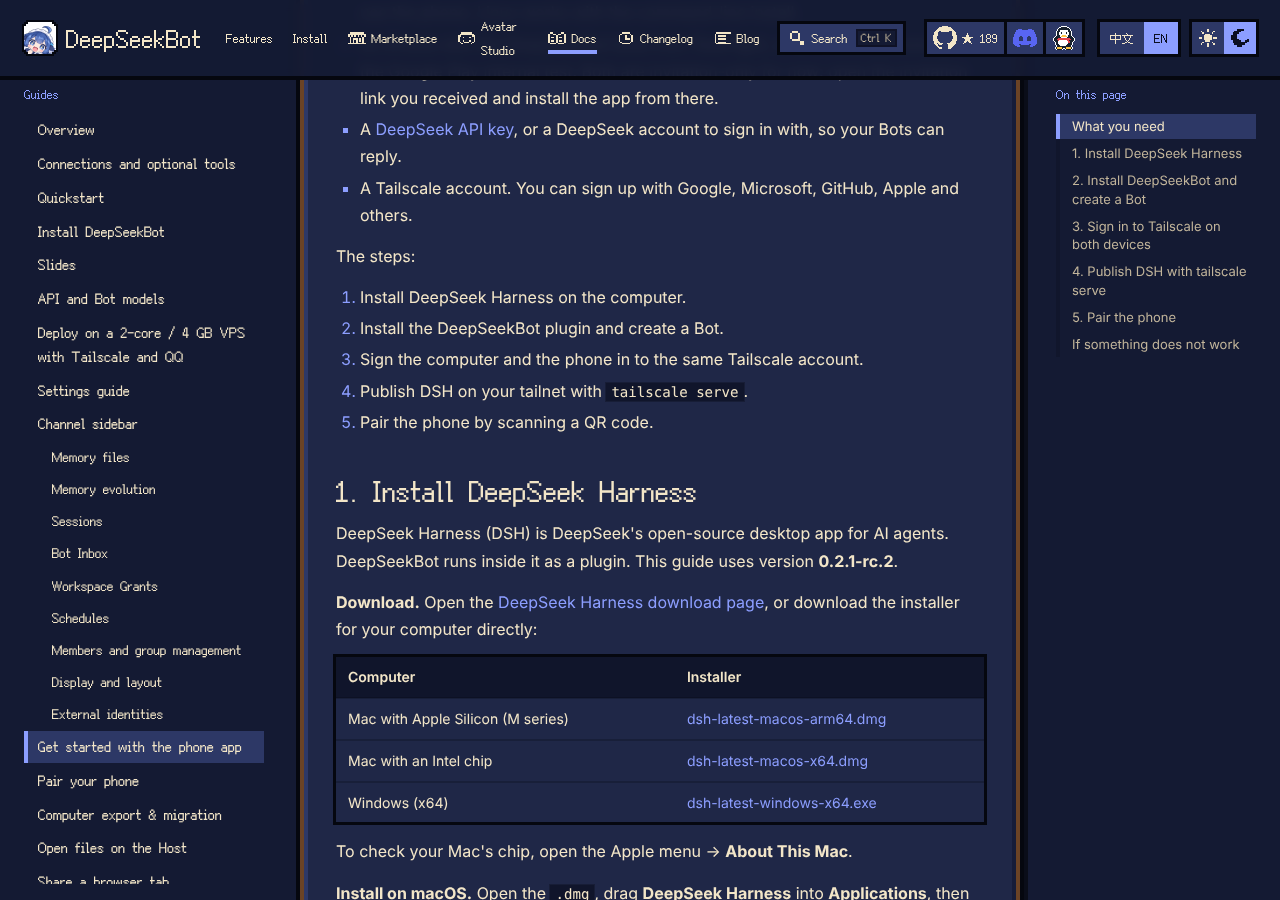
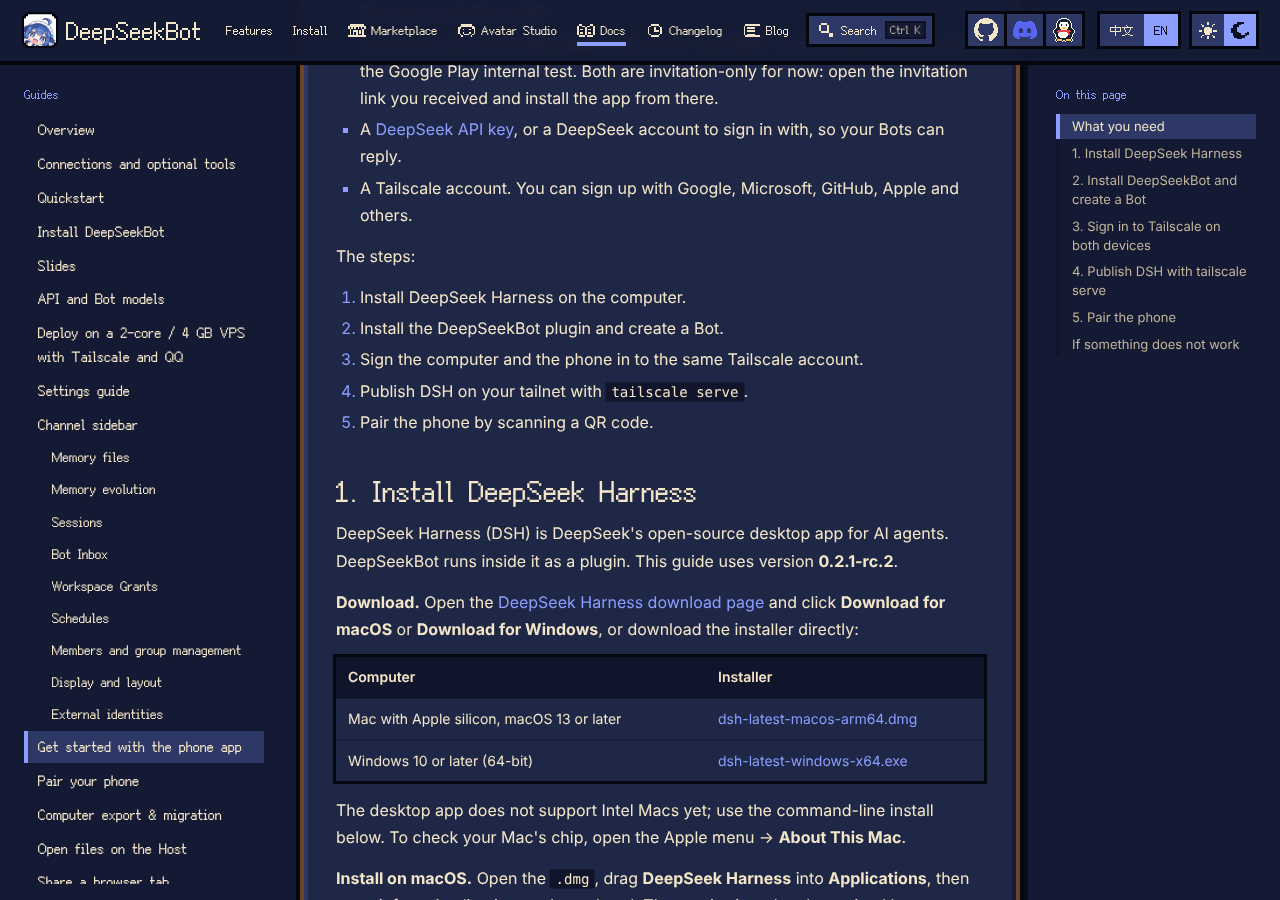
docs: match the DSH download page (Apple silicon and Windows only)
Checked deepseek.com/harness and /en/harness: the desktop app ships for
Apple silicon on macOS 13+ and Windows 10+ x64, and says Intel Macs are
not supported yet. The arm64 and Windows feeds serve 0.2.1-rc.2; the
mac-x64 feed is still rc.1, so drop that link and route Intel Macs to
the CLI. Use the page's own button labels in each language.

Claude-Session: https://claude.ai/code/session_012xsMzx1Y3yk5VtrmCCVHW7

diff --git a/content/docs/en/mobile-app.md b/content/docs/en/mobile-app.md
@@ -17,7 +17,7 @@ The software is free. DSH and DeepSeekBot are open source and need no account. T
 
 ## What you need
 
-- A Mac (Apple Silicon or Intel) or a Windows x64 computer that stays on while you use the phone. Linux works with the command-line install.
+- A Mac with Apple silicon (macOS 13 or later) or a Windows 10 or later x64 computer that stays on while you use the phone. Intel Macs and Linux work with the command-line install.
 - An iPhone with the DeepSeekBot beta from TestFlight, or an Android phone with the Google Play internal test. Both are invitation-only for now: open the invitation link you received and install the app from there.
 - A [DeepSeek API key](https://platform.deepseek.com/api_keys), or a DeepSeek account to sign in with, so your Bots can reply.
 - A Tailscale account. You can sign up with Google, Microsoft, GitHub, Apple and others.
@@ -34,15 +34,14 @@ The steps:
 
 DeepSeek Harness (DSH) is DeepSeek's open-source desktop app for AI agents. DeepSeekBot runs inside it as a plugin. This guide uses version **0.2.1-rc.2**.
 
-**Download.** Open the [DeepSeek Harness download page](https://www.deepseek.com/en/harness/), or download the installer for your computer directly:
+**Download.** Open the [DeepSeek Harness download page](https://www.deepseek.com/en/harness/) and click **Download for macOS** or **Download for Windows**, or download the installer directly:
 
-| Computer                       | Installer                                                                                     |
-| ------------------------------ | --------------------------------------------------------------------------------------------- |
-| Mac with Apple Silicon (M series) | [dsh-latest-macos-arm64.dmg](https://download.deepseek.com/desktop/dsh-latest-macos-arm64.dmg) |
-| Mac with an Intel chip         | [dsh-latest-macos-x64.dmg](https://download.deepseek.com/desktop/dsh-latest-macos-x64.dmg)     |
-| Windows (x64)                  | [dsh-latest-windows-x64.exe](https://download.deepseek.com/desktop/dsh-latest-windows-x64.exe) |
+| Computer                                     | Installer                                                                                     |
+| -------------------------------------------- | --------------------------------------------------------------------------------------------- |
+| Mac with Apple silicon, macOS 13 or later    | [dsh-latest-macos-arm64.dmg](https://download.deepseek.com/desktop/dsh-latest-macos-arm64.dmg) |
+| Windows 10 or later (64-bit)                 | [dsh-latest-windows-x64.exe](https://download.deepseek.com/desktop/dsh-latest-windows-x64.exe) |
 
-To check your Mac's chip, open the Apple menu → **About This Mac**.
+The desktop app does not support Intel Macs yet; use the command-line install below. To check your Mac's chip, open the Apple menu → **About This Mac**.
 
 **Install on macOS.** Open the `.dmg`, drag **DeepSeek Harness** into **Applications**, then open it from Applications or Launchpad. The app is signed and notarized by DeepSeek, so macOS opens it normally.
 
@@ -55,7 +54,7 @@ To check your Mac's chip, open the Apple menu → **About This Mac**.
 
 You can also click **Set up later** and add a model provider in settings afterwards. To check the installed version, open the app menu → **About DeepSeek Harness**. DeepSeekBot 1.4.1 works with DSH 0.2.0-rc.2 and later 0.2.x releases, so a newer 0.2.x download also works.
 
-**Command line (Linux, or if you prefer it).** With Node 22 or later:
+**Command line (Intel Mac, Linux, or if you prefer it).** With Node 22 or later:
 
 ```bash
 npm i -g @deepseek-ai/dsh@0.2.1-rc.2

diff --git a/content/site-guides/en/mobile-app.md b/content/site-guides/en/mobile-app.md
@@ -10,7 +10,7 @@ The software is free. DSH and DeepSeekBot are open source and need no account. T
 
 ## What you need
 
-- A Mac (Apple Silicon or Intel) or a Windows x64 computer that stays on while you use the phone. Linux works with the command-line install.
+- A Mac with Apple silicon (macOS 13 or later) or a Windows 10 or later x64 computer that stays on while you use the phone. Intel Macs and Linux work with the command-line install.
 - An iPhone with the DeepSeekBot beta from TestFlight, or an Android phone with the Google Play internal test. Both are invitation-only for now: open the invitation link you received and install the app from there.
 - A [DeepSeek API key](https://platform.deepseek.com/api_keys), or a DeepSeek account to sign in with, so your Bots can reply.
 - A Tailscale account. You can sign up with Google, Microsoft, GitHub, Apple and others.
@@ -27,15 +27,14 @@ The steps:
 
 DeepSeek Harness (DSH) is DeepSeek's open-source desktop app for AI agents. DeepSeekBot runs inside it as a plugin. This guide uses version **0.2.1-rc.2**.
 
-**Download.** Open the [DeepSeek Harness download page](https://www.deepseek.com/en/harness/), or download the installer for your computer directly:
+**Download.** Open the [DeepSeek Harness download page](https://www.deepseek.com/en/harness/) and click **Download for macOS** or **Download for Windows**, or download the installer directly:
 
-| Computer                       | Installer                                                                                     |
-| ------------------------------ | --------------------------------------------------------------------------------------------- |
-| Mac with Apple Silicon (M series) | [dsh-latest-macos-arm64.dmg](https://download.deepseek.com/desktop/dsh-latest-macos-arm64.dmg) |
-| Mac with an Intel chip         | [dsh-latest-macos-x64.dmg](https://download.deepseek.com/desktop/dsh-latest-macos-x64.dmg)     |
-| Windows (x64)                  | [dsh-latest-windows-x64.exe](https://download.deepseek.com/desktop/dsh-latest-windows-x64.exe) |
+| Computer                                     | Installer                                                                                     |
+| -------------------------------------------- | --------------------------------------------------------------------------------------------- |
+| Mac with Apple silicon, macOS 13 or later    | [dsh-latest-macos-arm64.dmg](https://download.deepseek.com/desktop/dsh-latest-macos-arm64.dmg) |
+| Windows 10 or later (64-bit)                 | [dsh-latest-windows-x64.exe](https://download.deepseek.com/desktop/dsh-latest-windows-x64.exe) |
 
-To check your Mac's chip, open the Apple menu → **About This Mac**.
+The desktop app does not support Intel Macs yet; use the command-line install below. To check your Mac's chip, open the Apple menu → **About This Mac**.
 
 **Install on macOS.** Open the `.dmg`, drag **DeepSeek Harness** into **Applications**, then open it from Applications or Launchpad. The app is signed and notarized by DeepSeek, so macOS opens it normally.
 
@@ -48,7 +47,7 @@ To check your Mac's chip, open the Apple menu → **About This Mac**.
 
 You can also click **Set up later** and add a model provider in settings afterwards. To check the installed version, open the app menu → **About DeepSeek Harness**. DeepSeekBot 1.4.1 works with DSH 0.2.0-rc.2 and later 0.2.x releases, so a newer 0.2.x download also works.
 
-**Command line (Linux, or if you prefer it).** With Node 22 or later:
+**Command line (Intel Mac, Linux, or if you prefer it).** With Node 22 or later:
 
 ```bash
 npm i -g @deepseek-ai/dsh@0.2.1-rc.2
